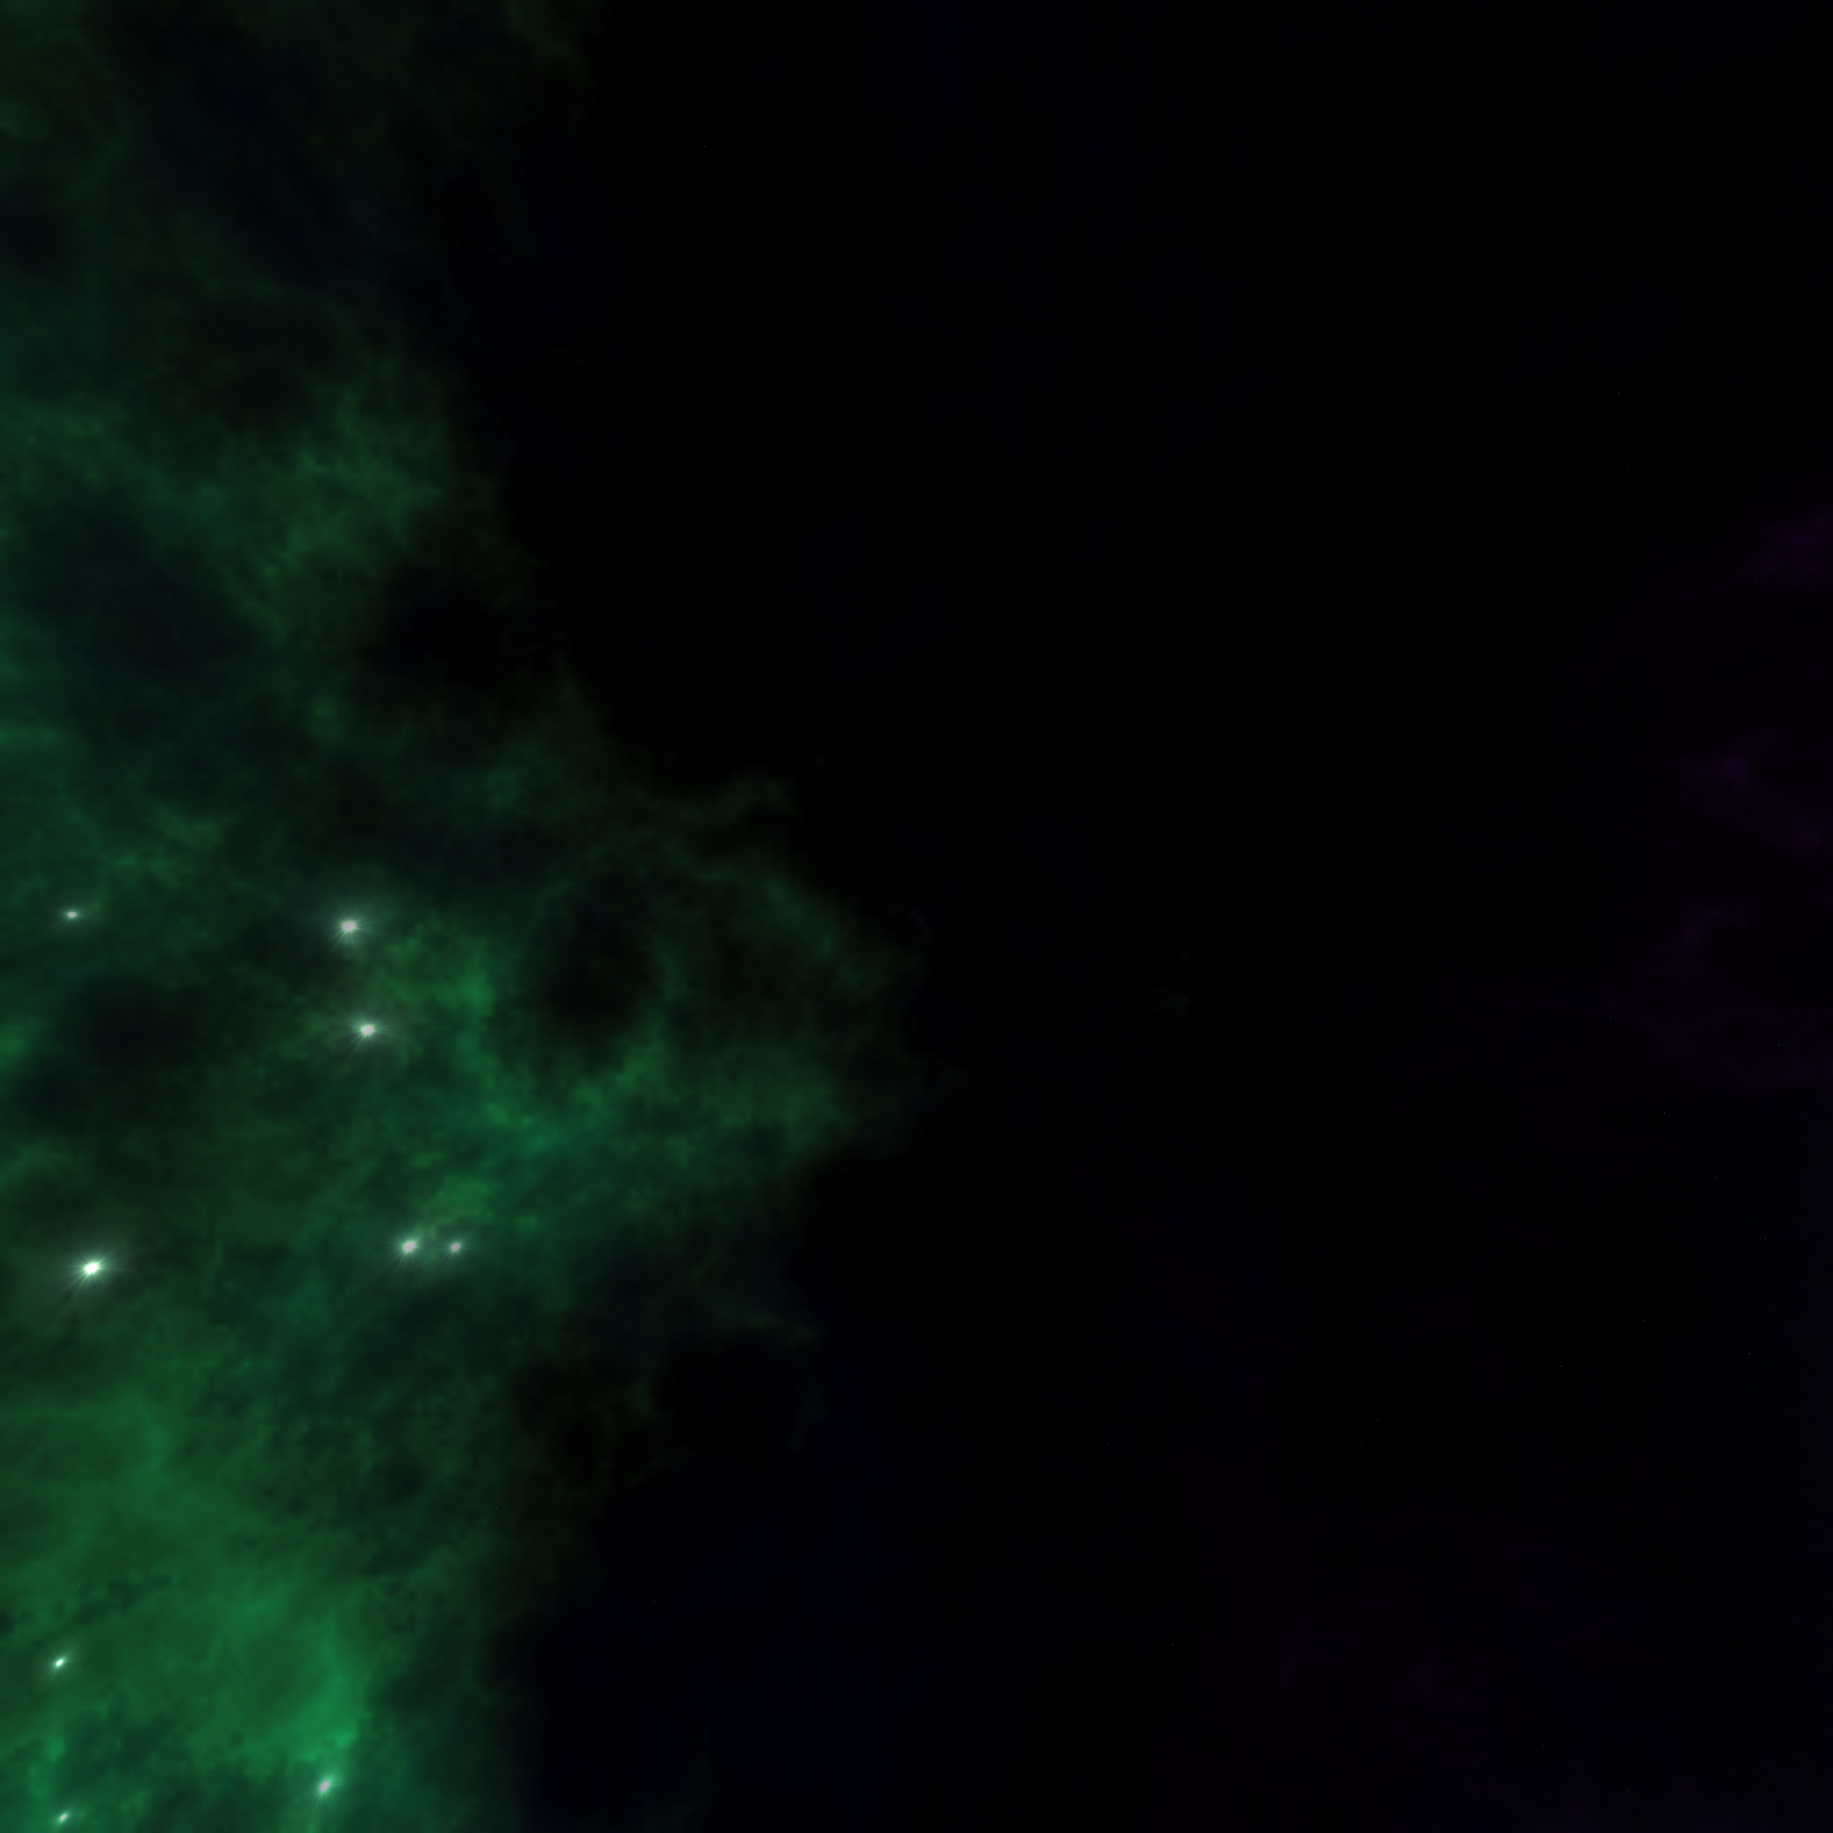
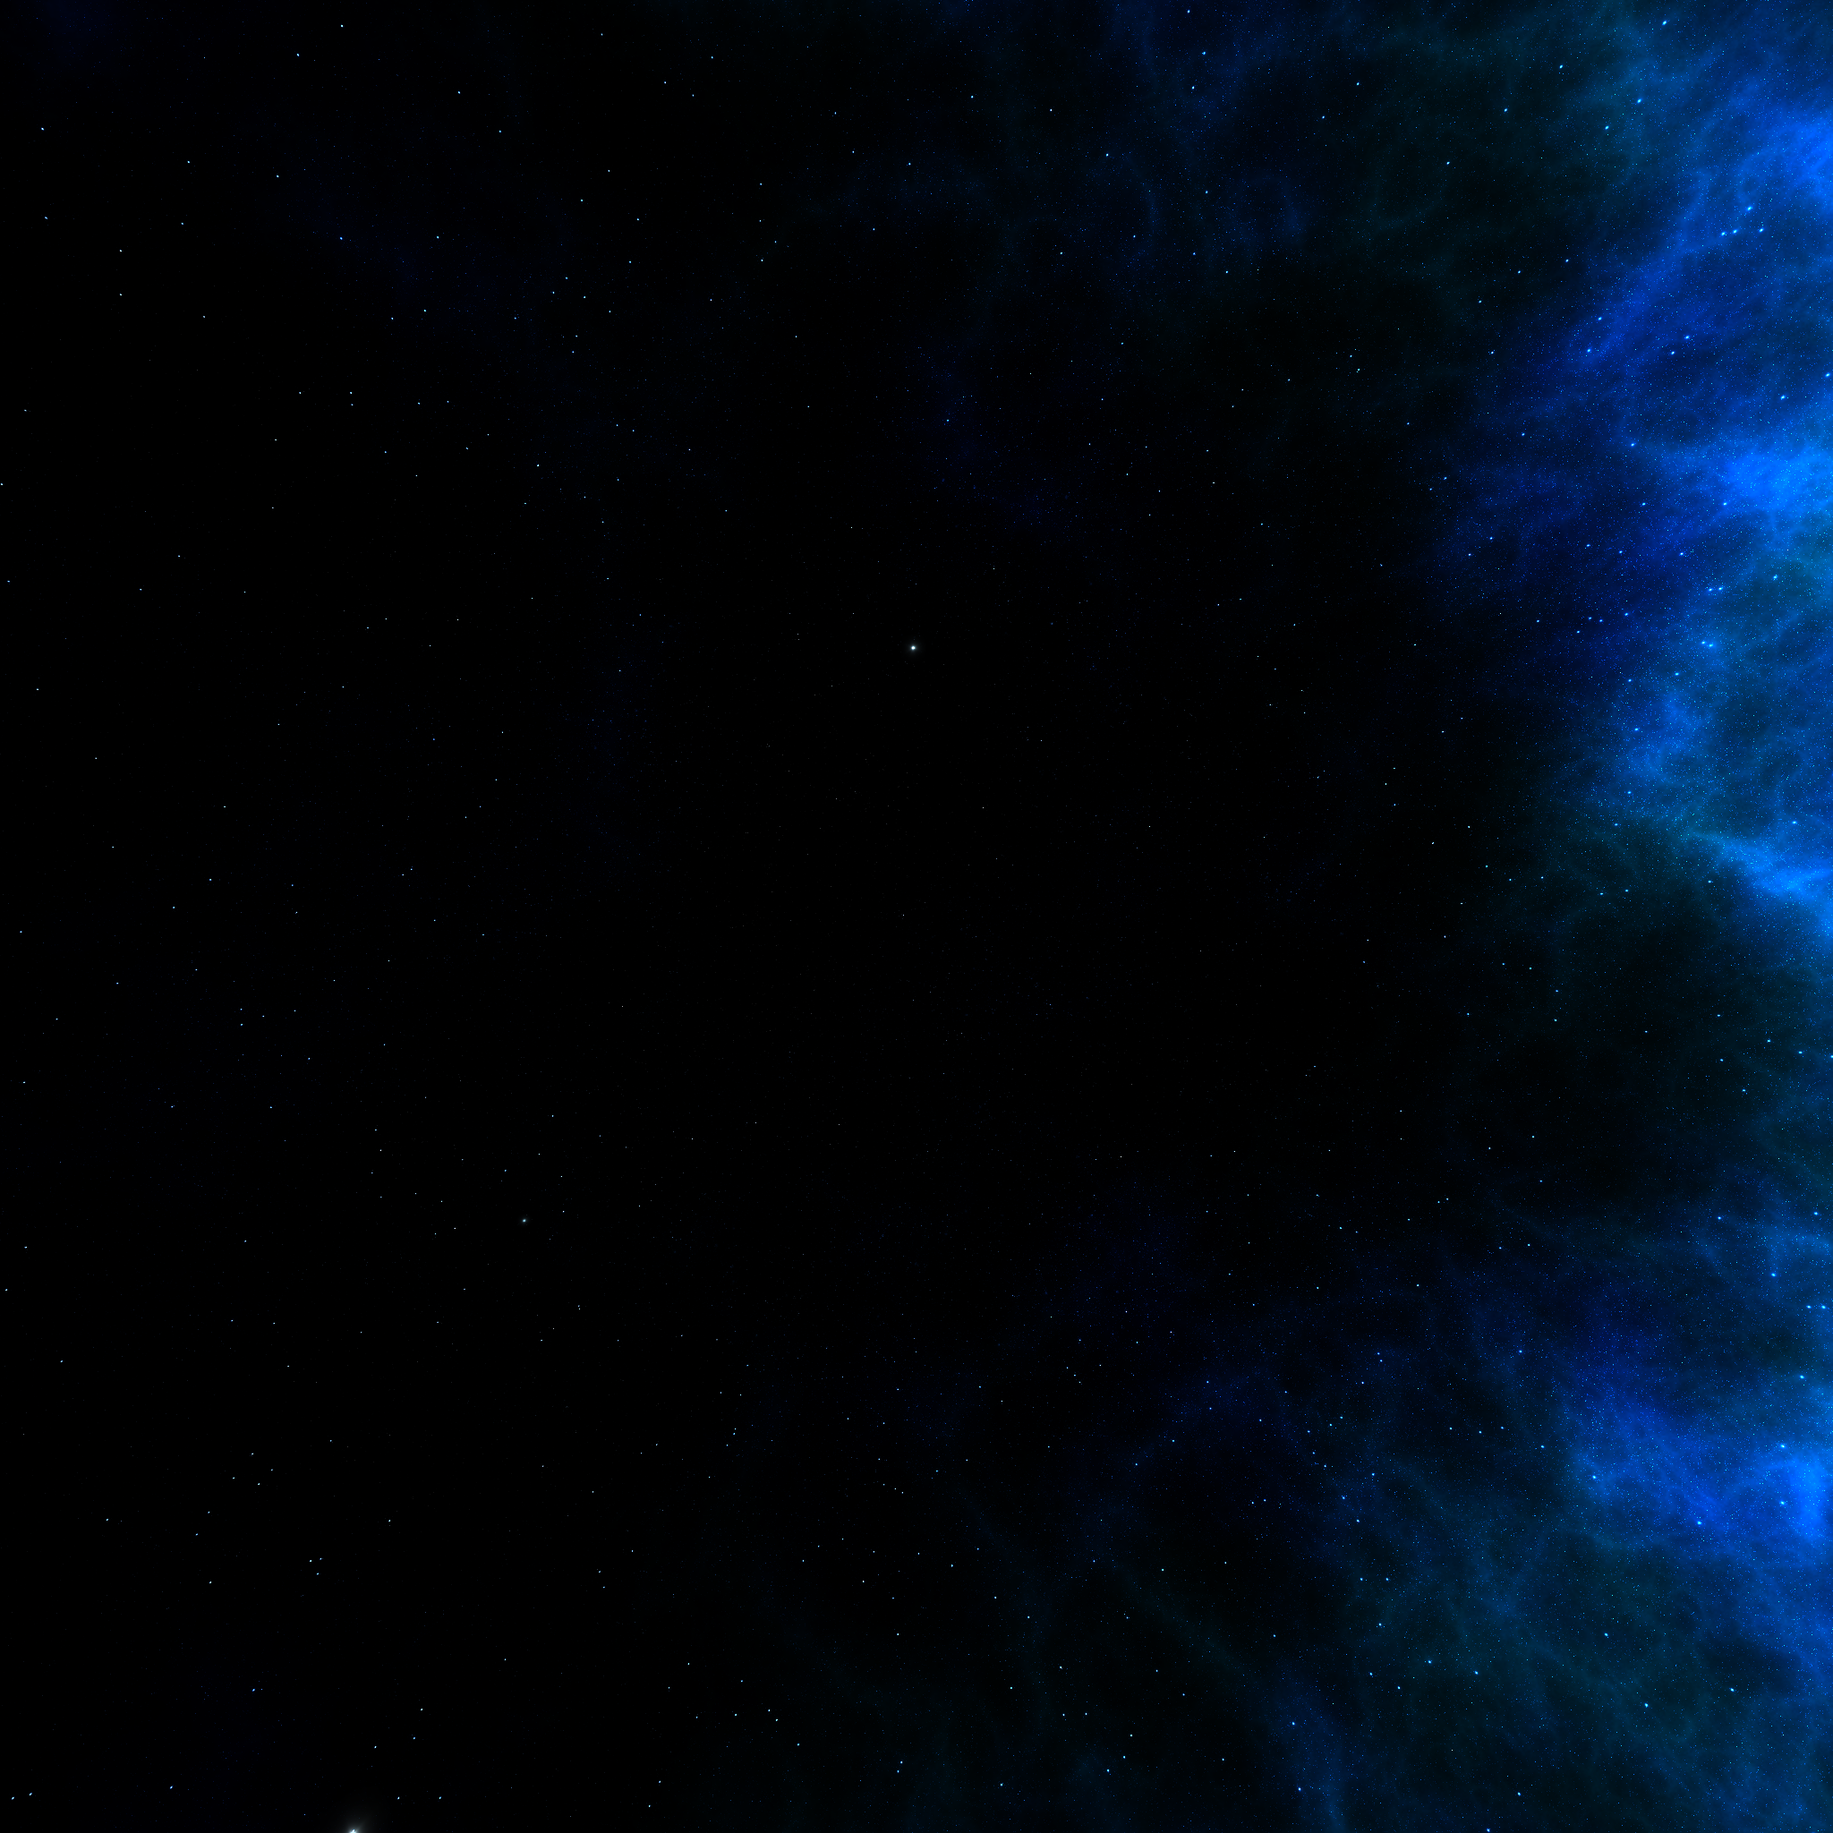
Chore:UI 수정

diff --git a/frontend/src/components/GalaxyCluster.tsx b/frontend/src/components/GalaxyCluster.tsx
@@ -10,6 +10,7 @@ type GalaxyClusterProps = {
   position: [number, number, number];
   commitCount: number;
   scale?: number;
+  rotation?: [number, number, number];
   label?: string;
   showLabel?: boolean;
   hitRadius?: number;
@@ -26,6 +27,7 @@ export default function GalaxyCluster(props: GalaxyClusterProps) {
     position,
     commitCount,
     scale = 1,
+    rotation,
     label,
     showLabel,
     hitRadius = 0,
@@ -38,13 +40,15 @@ export default function GalaxyCluster(props: GalaxyClusterProps) {
     const r = mulberry32(seed);
 
     // 은하 파라미터 (레포마다 다름)
-    const count =commitCount * 200 + 100;
-    const branches = Math.floor(randRange(r, 3, 8)); // 3~5
+    const count = commitCount * 200 + 100;
+    const branches = Math.max(Math.floor(commitCount / 10), 3); // 3~5
     const radiusMax = Math.log10(commitCount + 1) + 1.0;
     const spin = Math.log10(commitCount + 1) + 0.3;
     const thickness = randRange(r, 0.15, 0.3);
+    const armOffset = randRange(r, 0, Math.PI * 2);
+    const spinDirection = r() < 0.5 ? -1 : 1;
 
-    const insideColor = new THREE.Color().setHSL(randRange(r, 0.02, 0.12), 0.9, 0.65);
+    const insideColor = new THREE.Color().setHSL(randRange(r, 0.0, 0.2), 0.9, 0.65);
     const outsideColor = new THREE.Color().setHSL(randRange(r, 0.55, 0.75), 0.9, 0.45);
 
     const positions = new Float32Array(count * 3);
@@ -52,12 +56,12 @@ export default function GalaxyCluster(props: GalaxyClusterProps) {
 
     for (let i = 0; i < count; i++) {
       // 중심이 빽빽하도록 분포
-      const t = Math.pow(r(), 1.5);
+      const t = Math.pow(r(), 2.5);
       const radius = t * radiusMax;
 
       const branch = i % branches;
-      const branchAngle = (branch / branches) * Math.PI * 2;
-      const spinAngle = radius * spin;
+      const branchAngle = (branch / branches) * Math.PI * 2 + armOffset;
+      const spinAngle = radius * spin * spinDirection;
 
       // 나선 기본 좌표
       const angle = branchAngle + spinAngle;
@@ -66,7 +70,7 @@ export default function GalaxyCluster(props: GalaxyClusterProps) {
       let z = Math.sin(angle) * radius;
 
       // 팔 주변으로 퍼짐
-      const spread = (1 - t) * 0.05 + t * 0.35;
+      const spread = (1 - t) * 0.01 + t * randRange(r, 0.25, 0.30);
       x += (Math.pow(r(), 3) - 0.5) * 2 * spread * radiusMax;
       z += (Math.pow(r(), 3) - 0.5) * 2 * spread * radiusMax;
 
@@ -105,7 +109,7 @@ export default function GalaxyCluster(props: GalaxyClusterProps) {
     alphaMap.needsUpdate = true;
 
     const mat = new THREE.PointsMaterial({
-      size: randRange(r, 0.02, 0.06),
+      size: randRange(r, 0.03, 0.06),
       sizeAttenuation: true,
       vertexColors: true,
       transparent: true,
@@ -120,7 +124,7 @@ export default function GalaxyCluster(props: GalaxyClusterProps) {
   const useHitArea = hitRadius > 0;
 
   return (
-    <group position={position} scale={scale}>
+    <group position={position} scale={scale} rotation={rotation}>
       <points
         geometry={geometry}
         material={material}
@@ -137,7 +141,7 @@ export default function GalaxyCluster(props: GalaxyClusterProps) {
 
       {showLabel && label ? (
         <Billboard position={[0, 0.8, 0]}>
-  `        <Html
+          `        <Html
             center
             transform
             distanceFactor={10}

diff --git a/frontend/src/hooks/useGalaxyData.ts b/frontend/src/hooks/useGalaxyData.ts
@@ -14,6 +14,7 @@ export const useGalaxyData = (
   const [message, setMessage] = useState('')
   const lastSyncedRepoRef = useRef<number | null>(null)
   const lastAggregateKeyRef = useRef<string | null>(null)
+  const summaryOwnerRef = useRef<string | null>(null)
   const backgroundSyncInFlightRef = useRef<Set<number>>(new Set())
   const initialBackgroundSyncPendingRef = useRef(false)
   const prevAuthRef = useRef<AuthState | null>(null)
@@ -21,6 +22,7 @@ export const useGalaxyData = (
   const viewLoadingTimeoutRef = useRef<number | null>(null)
   const isViewingFriend = selectedUserId != null
   const VIEW_LOADING_MIN_MS = 2000
+  const currentViewKey = selectedUserId == null ? 'me' : String(selectedUserId)
 
   const beginViewLoading = () => {
     if (viewLoadingTimeoutRef.current != null) {
@@ -105,6 +107,7 @@ export const useGalaxyData = (
       const data = (await response.json()) as SummaryResponse
       setSummary(data)
       setMessage('')
+      summaryOwnerRef.current = currentViewKey
       summaryOk = true
     } catch (error) {
       setMessage(error instanceof Error ? error.message : 'Summary fetch failed.')
@@ -146,6 +149,7 @@ export const useGalaxyData = (
       prevAuthRef.current = null
       initialBackgroundSyncPendingRef.current = false
       lastAggregateKeyRef.current = null
+      summaryOwnerRef.current = null
       viewLoadingStartedAtRef.current = null
       if (viewLoadingTimeoutRef.current != null) {
         window.clearTimeout(viewLoadingTimeoutRef.current)
@@ -174,6 +178,7 @@ export const useGalaxyData = (
     setGalaxy(null)
     setMessage('')
     lastAggregateKeyRef.current = null
+    summaryOwnerRef.current = null
   }, [auth, selectedUserId])
 
   useEffect(() => {
@@ -183,6 +188,7 @@ export const useGalaxyData = (
       setSelectedRepoId(null)
       lastSyncedRepoRef.current = null
       lastAggregateKeyRef.current = null
+      summaryOwnerRef.current = null
       backgroundSyncedReposRef.current.clear()
       if (summaryRefreshTimeoutRef.current) {
         window.clearTimeout(summaryRefreshTimeoutRef.current)
@@ -214,6 +220,10 @@ export const useGalaxyData = (
 
   useEffect(() => {
     if (!auth || !summary) {
+      return
+    }
+
+    if (summaryOwnerRef.current !== currentViewKey) {
       return
     }
 
@@ -289,6 +299,7 @@ export const useGalaxyData = (
     const loadSingleGalaxy = async (repoId: number) => {
       const repo = summary.galaxies.find((item) => item.repoId === repoId)
       if (!repo) {
+        finishViewLoading()
         return
       }
 
@@ -379,6 +390,8 @@ export const useGalaxyData = (
       if (lastAggregateKeyRef.current !== summaryKey) {
         lastAggregateKeyRef.current = summaryKey
         void loadAggregateGalaxy()
+      } else {
+        finishViewLoading()
       }
     } else {
       lastAggregateKeyRef.current = null
@@ -388,7 +401,7 @@ export const useGalaxyData = (
     return () => {
       cancelled = true
     }
-  }, [apiBaseUrl, auth, summary, selectedRepoId, selectedUserId])
+  }, [apiBaseUrl, auth, summary, selectedRepoId, selectedUserId, currentViewKey])
 
   useEffect(() => {
     if (

diff --git a/frontend/src/pages/GalaxyPage.tsx b/frontend/src/pages/GalaxyPage.tsx
@@ -170,16 +170,15 @@ const GalaxyPage = () => {
           )}
 
           <div
-            className={`absolute inset-0 transition-opacity duration-[420ms] ease-in-out ${
-              showUniverseLayer ? 'opacity-100' : 'opacity-0'
-            } ${showUniverseLayer ? 'pointer-events-auto' : 'pointer-events-none'}`}
+            className={`absolute inset-0 transition-opacity duration-[420ms] ease-in-out ${showUniverseLayer ? 'opacity-100' : 'opacity-0'
+              } ${showUniverseLayer ? 'pointer-events-auto' : 'pointer-events-none'}`}
           >
             <UniverseCanvas
               repos={summary?.galaxies ?? []}
               selectedRepoId={selectedRepoId}
               focusRepoId={focusRepoId}
               exitRepoId={exitRepoId}
-              onSelectRepo={() => {}}
+              onSelectRepo={() => { }}
             />
 
             <div className="relative z-10 h-full">
@@ -188,9 +187,8 @@ const GalaxyPage = () => {
           </div>
 
           <div
-            className={`absolute inset-0 transition-opacity duration-[420ms] ease-in-out ${
-              showRepoLayer ? 'opacity-100' : 'opacity-0'
-            } ${showRepoLayer ? 'pointer-events-auto' : 'pointer-events-none'}`}
+            className={`absolute inset-0 transition-opacity duration-[420ms] ease-in-out ${showRepoLayer ? 'opacity-100' : 'opacity-0'
+              } ${showRepoLayer ? 'pointer-events-auto' : 'pointer-events-none'}`}
           >
             <div className="relative z-10 h-full">
               <RepoGalaxy
@@ -201,10 +199,12 @@ const GalaxyPage = () => {
             </div>
           </div>
 
-          <TopStatus
-            title={title}
-            subtitle={starCount ? `${starCount} stars rendered` : 'No stars yet'}
-          />
+          <div className='absolute top-5 right-2 w-full'>
+            <TopStatus
+              title={title}
+              subtitle={starCount ? `${starCount} stars rendered` : 'No stars yet'}
+            />
+          </div>
 
           {bannerMessage && (
             <div className="absolute bottom-6 left-6 z-10 rounded-xl border border-amber-200/30 bg-amber-200/10 px-3 py-2 text-xs text-amber-100">

diff --git a/frontend/src/components/UniverseCanvas.tsx b/frontend/src/components/UniverseCanvas.tsx
@@ -8,6 +8,7 @@ import BackgroundNebula from "./scene/BackgroundNebula";
 import IntroCameraRig from "./scene/IntroCameraRig";
 import Meteors from "./scene/Meteors";
 import { hashStringToSeed, mulberry32, randRange } from "../utils/seed";
+import Skybox from "../Skybox";
 
 type RepoLike = {
   repoId: number | string;
@@ -33,6 +34,7 @@ type ClusterState = {
   position: [number, number, number];
   scale: number;
   phase: ClusterPhase;
+  rotation: [number, number, number];
   phaseStartedAt: number;
 };
 
@@ -53,8 +55,8 @@ export default function UniverseCanvas({
   const [clusters, setClusters] = useState<ClusterState[]>([]);
 
   const placements = useMemo(() => {
-    const RMAX = 15;        // 은하 퍼점 반경
-    const YSPREAD = 10.0;   // 은하 수직 범위
+    const RMAX = repos.length+5;        // 은하 퍼점 반경
+    const YSPREAD = repos.length+5;   // 은하 수직 범위
 
     const count = Math.max(repos.length, 1);
     const goldenAngle = Math.PI * (3 - Math.sqrt(5));
@@ -83,6 +85,11 @@ export default function UniverseCanvas({
         label: repo.name ?? repoId,
         position: [x, y, z] as [number, number, number],
         scale,
+        rotation: [
+          randRange(r, 0, Math.PI * 2),
+          randRange(r, 0, Math.PI * 2),
+          randRange(r, 0, Math.PI * 2),
+        ] as [number, number, number],
       };
     });
   }, [repos]);
@@ -204,9 +211,8 @@ export default function UniverseCanvas({
     >
       <ambientLight intensity={0.3} />
       <Environment preset="night" />
-      <BackgroundNebula />
+      <Skybox />
       <BackgroundEvents />
-      <BackgroundStars />
       <Meteors />
 
       {/* 개별 은하 그림 */}
@@ -220,6 +226,7 @@ export default function UniverseCanvas({
             id={p.id}
             position={p.position}
             scale={p.scale}
+            rotation={p.rotation}
             commitCount={p.commitCount}
             label={p.label}
             hitRadius={isFocused ? 5.5 * p.scale : 0}

diff --git a/frontend/src/Skybox.tsx b/frontend/src/Skybox.tsx
@@ -1,0 +1,43 @@
+import { useMemo } from "react";
+import * as THREE from "three";
+import skyboxRight from "./assets/skybox_right.png";
+import skyboxLeft from "./assets/skybox_left.png";
+import skyboxUp from "./assets/skybox_up.png";
+import skyboxDown from "./assets/skybox_down.png";
+import skyboxFront from "./assets/skybox_front.png";
+import skyboxBack from "./assets/skybox_back.png";
+
+const SKYBOX_SIZE = 100;
+const SKYBOX_TINT = new THREE.Color(0.3, 0.3, 0.3);
+
+export default function Skybox() {
+  const materials = useMemo(() => {
+    const loader = new THREE.TextureLoader();
+    const faces = [
+      skyboxRight,
+      skyboxLeft,
+      skyboxUp,
+      skyboxDown,
+      skyboxFront,
+      skyboxBack,
+    ];
+
+    return faces.map((face) => {
+      const texture = loader.load(face);
+      texture.colorSpace = THREE.SRGBColorSpace;
+      return new THREE.MeshBasicMaterial({
+        map: texture,
+        color: SKYBOX_TINT,
+        side: THREE.BackSide,
+        depthWrite: false,
+      });
+    });
+  }, []);
+
+  return (
+    <mesh>
+      <boxGeometry args={[SKYBOX_SIZE, SKYBOX_SIZE, SKYBOX_SIZE]} />
+      <primitive object={materials} attach="material" />
+    </mesh>
+  );
+}

diff --git a/frontend/src/components/Sidebar.tsx b/frontend/src/components/Sidebar.tsx
@@ -16,7 +16,6 @@ const Sidebar = ({
   summary,
   galaxy,
   selectedRepoId,
-  syncing,
   onSelectRepo,
   onLogout,
   friendPanel,
@@ -45,9 +44,9 @@ const Sidebar = ({
     <div className="flex items-center justify-between">
       <div>
         <p className="text-xs uppercase tracking-[0.35em] text-cyan-300/80">
-          Universe
+          Code Galaxy
         </p>
-        <h2 className="mt-2 text-xl font-semibold">Constellation Map</h2>
+        <h2 className="mt-2 text-xl font-semibold">Universe Map</h2>
       </div>
       <button
         type="button"
@@ -75,7 +74,7 @@ const Sidebar = ({
         </div>
       </div>
       <p className="mt-3 text-xs text-slate-500">
-        Select a repository to focus its constellation.
+        Select a repository to focus on its galaxy.
       </p>
     </div>
 

diff --git a/frontend/src/components/FriendPanel.tsx b/frontend/src/components/FriendPanel.tsx
@@ -163,7 +163,7 @@ const FriendPanel = ({
               <button
                 type="button"
                 onClick={() => onSelectFriend(null)}
-                className={`flex w-full items-center justify-between rounded-lg border px-2 py-1 text-left text-xs transition ${
+                className={`flex w-full items-center justify-between rounded-lg border px-2 py-2 text-left text-xs transition ${
                   selectedFriendId === null
                     ? 'border-cyan-300/60 bg-cyan-300/10 text-cyan-100'
                     : 'border-white/5 bg-black/30 text-slate-200 hover:border-white/30'

diff --git a/frontend/src/components/scene/IntroCameraRig.tsx b/frontend/src/components/scene/IntroCameraRig.tsx
@@ -192,7 +192,7 @@ export default function IntroCameraRig({
       enableDamping
       dampingFactor={0.08}
       minDistance={8}
-      maxDistance={28}
+      maxDistance={32}
       zoomSpeed={0.9}
       autoRotate={autoRotate}
       autoRotateSpeed={AUTO_ROTATE_SPEED}
